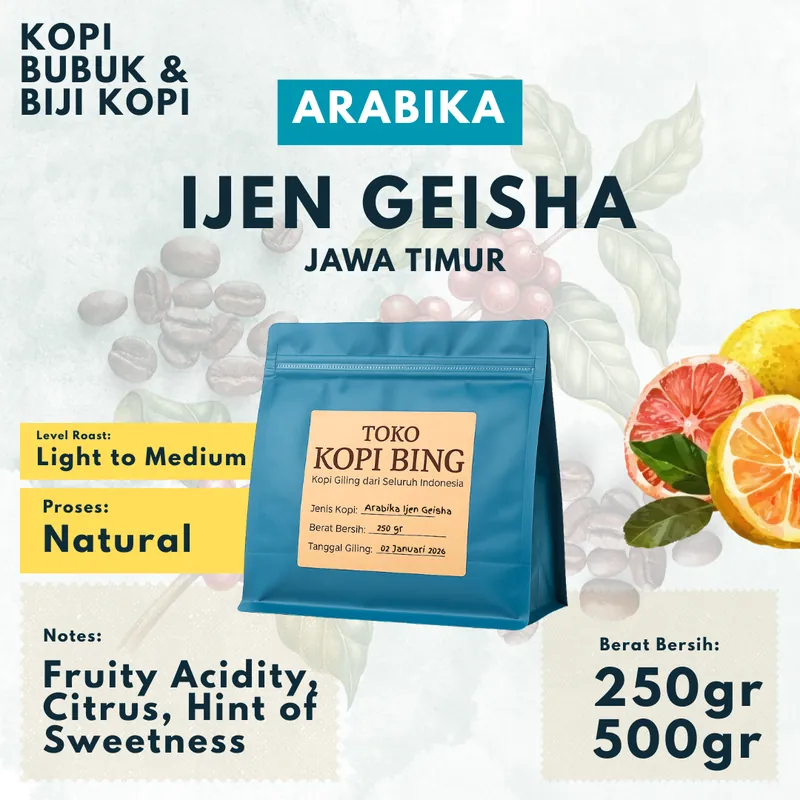
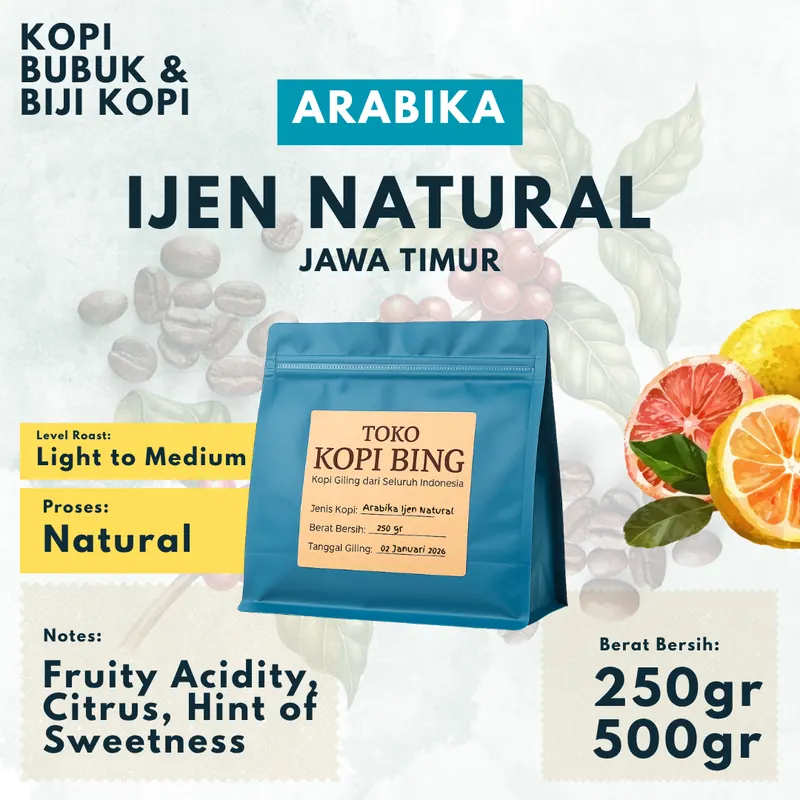
Ijen Natural: foto kemasan baru, roast sesuai kemasan, nama di keranjang ikut disegarkan
Foto diambil dari "Foto Marketplace Kopi Bing/Ijen Natural.png", diperkecil ke
800x800 webp ~55 KB supaya setara gambar produk lain. Berkasnya tetap bernama
arabika-ijen-geisha.webp karena slug-nya sengaja dipertahankan.

Roast diselaraskan dengan yang tertulis di kemasan: "Light to medium".

Nama produk ikut tersimpan di keranjang waktu barang ditambahkan, jadi pembeli
yang menaruh Ijen Natural sebelum penggantian nama akan terus melihat "Ijen
Geisha". `pruneCart()` sekarang menerima peta slug -> nama dan menyegarkannya;
halaman keranjang menyimpan balik hasilnya. Yang dikirim ke browser cuma peta
nama, bukan seluruh katalog.

Diuji lokal: keranjang berisi Java Ijen + Ijen Geisha + Robusta Gayo menyisakan
dua item dengan nama Ijen Natural, subtotal ikut menyesuaikan.

Changed region(s): [[0.1562, 0.2188, 0.8125, 0.3438], [0.4375, 0.625, 0.5625, 0.6562]]

diff --git a/src/data/scalev.js b/src/data/scalev.js
@@ -32,8 +32,16 @@ const WEIGHTS = [100,250,500,1000];
 // ditarik masih bisa ikut checkout berhari-hari sesudahnya - varian lamanya masih
 // diterima Scalev. Karena itu isi keranjang disaring ulang tiap kali dibaca.
 export function stillSold(slug){ return !!VARIANT_G[slug]; }
-export function pruneCart(cart){
-  return (Array.isArray(cart) ? cart : []).filter(function(it){ return stillSold(it && it.slug); });
+// `names` opsional: peta slug -> nama terbaru. Nama ikut tersimpan di keranjang waktu
+// barang ditambahkan, jadi produk yang diganti namanya akan terus tampil dengan nama
+// lama sampai pelanggan menambahkannya ulang. Kalau petanya diberikan, nama disegarkan.
+export function pruneCart(cart, names){
+  return (Array.isArray(cart) ? cart : [])
+    .filter(function(it){ return stillSold(it && it.slug); })
+    .map(function(it){
+      const baru = names && names[it.slug];
+      return (baru && baru !== it.name) ? Object.assign({}, it, { name: baru }) : it;
+    });
 }
 
 export function variantId(slug, g, grind){

diff --git a/src/data/products.js b/src/data/products.js
@@ -56,7 +56,7 @@ export const products = [
     prices:{100:54000,250:123000,500:225000,1000:420000},
     desc:"Ini arabika paling special di Kopi Bing. Namanya wine bukan karena ada alkoholnya, tapi dari cara prosesnya yang lewat fermentasi khusus. Hasilnya, asamnya tinggi dan ada rasa fermentasi yang khas, beda dari arabika biasa. Aman diminum, halal. Wine cuma istilah prosesnya aja." },
   { slug:"arabika-ijen-geisha", name:"Arabika Ijen Natural", cat:"arabika", taste:"asem",
-    origin:"Ijen, Jawa Timur", roast:"Medium", bestseller:false,
+    origin:"Ijen, Jawa Timur", roast:"Light to medium", bestseller:false,
     notes:["asam tinggi","fruity","natural"], intensity:{pahit:20,asam:85,body:50},
     brew:["V60","Manual brew"], grind:"Medium",
     prices:{100:50000,250:115000,500:215000,1000:385000},
